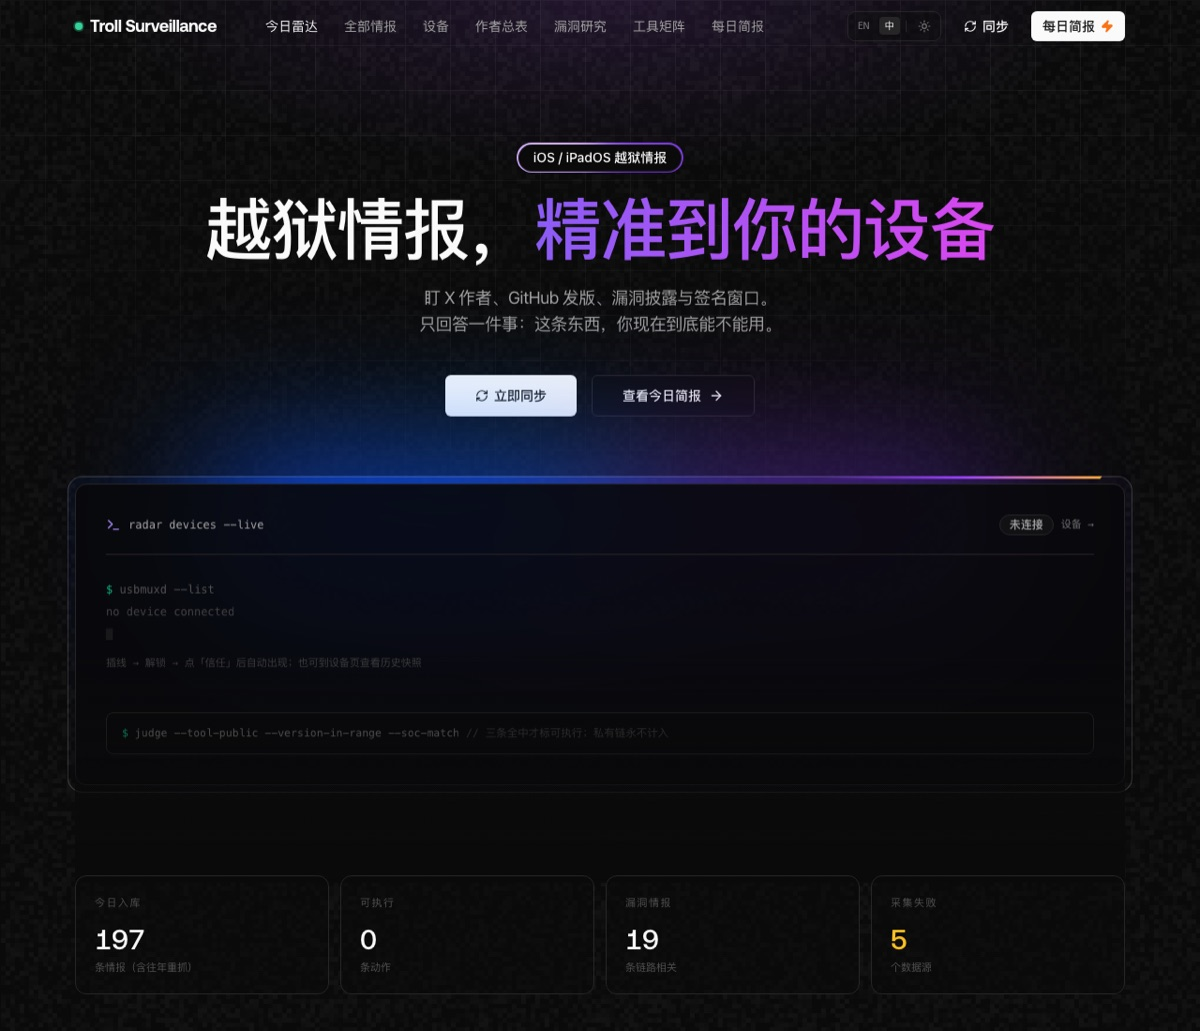
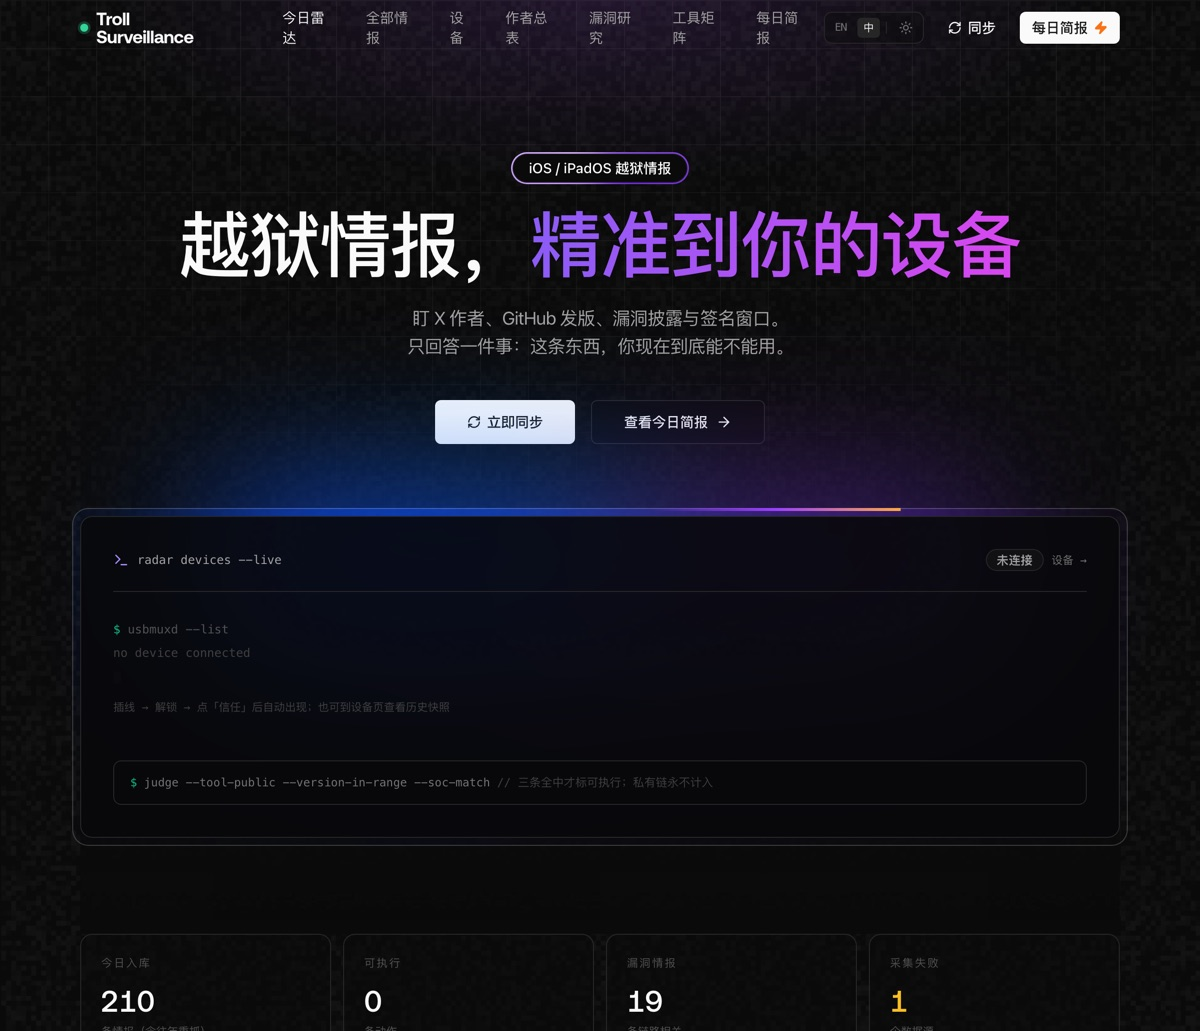
feat(docs): sync EN/ZH READMEs, screenshots and release notes
The English README now covers the Apple platform push panel exactly like the
Chinese one (feature block, data-source row, /api/os, project layout), the
Chinese README gains the missing "Interface" section, both get refreshed
home/light screenshots plus a dedicated apple-push shot, and generated release
bodies keep their Chinese section in Chinese instead of repeating the English
bullets.

zh: 中英 README、截图与发布说明全部同源同步；中文段不再重复英文条目

diff --git a/components/site/os-push.tsx b/components/site/os-push.tsx
@@ -126,7 +126,7 @@ export default function OsPushPanel({
   const fresh = push ? Date.now() - new Date(push.at).getTime() < 36 * 3600 * 1000 : false;
 
   return (
-    <section>
+    <section id="apple-push" className="scroll-mt-24">
       <div className="flex flex-col items-start justify-between gap-5 md:flex-row md:items-end">
         <div>
           <MagicBadge title={t(lang, 'home.os.badge')} />

diff --git a/README.zh-CN.md b/README.zh-CN.md
@@ -23,6 +23,16 @@
 - **ipsw.me** —— 按机型标识实时查询签名窗口
 - **Apple 安全公告** 与 **Relaxin**（直接解析它的 SPA bundle —— 该项目没有公开仓库）
 
+### Apple 平台推送
+- 直读 `developer.apple.com/news/releases/rss/releases.rss` —— 就是 Apple 自己发布的那个源，中间没有镜像站
+- 共用同一个 pubDate 的条目合并成**一次推送**，看到的是「Apple 一次推了 7 个版本」，而不是七条互不相干的记录
+- 每个平台（Xcode、iOS、iPadOS、macOS、tvOS、visionOS、watchOS）给出版本、Build 与渠道（RC / Beta / 正式版），并标出**新版本 / 旧版本**；新版本还会写明从哪一版升上来
+- 每行都和当前连接的设备（或保存的判定档案）对比：`你的 27.0.1 · 低于推送`
+- 2 分钟缓存，且每轮 600 秒同步都会回源，官方一发就会自己更新
+- `/api/os` 对外暴露同样的行数据、推送历史与新/旧标记
+
+![Apple 平台推送](docs/screenshots/zh/apple-push.jpg)
+
 ### 判定引擎
 - 关键词加权（untether、0day、MIE/PAC/SPTM、内核、CoreTrust…）并保留证据链
 - **版本抽取 + SoC 匹配**：每条情报相对你的设备判定为 `direct` / `future` / `obsolete`
@@ -38,6 +48,13 @@
 - 未连接时终端窗口保留，只隐藏设备行
 
 ![设备](docs/screenshots/zh/devices.jpg)
+
+### 界面
+- **双语** —— 导航栏 EN / 中 切换，写进 cookie，支持 `?lang=en` 直链；在服务端解析，不会先闪一下再变
+- **亮色 + 暗色** —— ☀ / ☾ 切换，`?theme=light` 直链；语义 token 加中性色重映射
+- **脱敏模式** —— `?redact=1` 遮蔽 UDID 尾号、型号与地区，截图可安全公开
+
+![亮色主题](docs/screenshots/zh/light.jpg)
 
 ### 简报
 - 每日 markdown 归档（`data/digests/YYYY-MM-DD.md`），**每轮同步都重写**
@@ -97,6 +114,7 @@ WATCH_MS=300000 ./start.sh  # 改成 5 分钟
 | 固件签名 | `lib/collect/ipsw.ts` | 按机型标识取签名列表 |
 | Apple 安全公告 | `lib/collect/apple.ts` | 公告标题 |
 | Relaxin | `lib/collect/relaxin.ts` | 从站点 bundle 解析版本与支持矩阵 |
+| Apple 平台版本 | `lib/osversions.ts`、`lib/collect/apple.ts` | 官方 developer releases RSS；同时间戳条目合并为一次推送 |
 
 ## API
 
@@ -108,6 +126,7 @@ WATCH_MS=300000 ./start.sh  # 改成 5 分钟
 | GET | `/api/digest?date=` | markdown 简报 |
 | GET | `/api/watch` | 抓取器状态（间隔、上次/下次、错误） |
 | GET | `/api/health` | 同步健康度与签名快照 |
+| GET | `/api/os[?force=1]` | 平台版本、推送历史、新/旧标记 |
 | GET/POST | `/api/profile` | 读取/修改判定目标 |
 
 ## 目录结构
@@ -115,7 +134,7 @@ WATCH_MS=300000 ./start.sh  # 改成 5 分钟
 ```
 app/            页面与 API
 components/     UI（Linkify 皮肤、实时设备、简报渲染）
-lib/            analyze / digest / sync / devices / trollstore / fresh / dedupe / xfilter
+lib/            analyze / digest / sync / devices / trollstore / osversions / fresh / dedupe / xfilter
 lib/collect/    各数据源适配器
 scripts/        sync、watch、reanalyze、device、dossier、purge-x
 data/           运行时状态（已 gitignore）：items、meta、digests、设备快照

diff --git a/README.md b/README.md
@@ -23,6 +23,16 @@ Jailbreak news is noisy and almost always untethered from reality. A tool "suppo
 - **ipsw.me** — live signing window per device identifier
 - **Apple security releases** and **Relaxin** (parsed straight out of the SPA bundle — the project has no public repo)
 
+### Apple platform push
+- Reads `developer.apple.com/news/releases/rss/releases.rss` directly — the feed Apple itself publishes, no mirror in between
+- Items that share one pubDate are grouped into **one push**, so the page says "Apple shipped 7 builds" instead of showing seven unrelated rows
+- Every platform (Xcode, iOS, iPadOS, macOS, tvOS, visionOS, watchOS) gets version, build and channel (RC / Beta / release), plus a **new vs unchanged** marker; new rows also say what they upgraded from
+- Each row is compared against your connected device or the saved profile — `yours 27.0.1 · behind the push`
+- Refetched every 2 minutes, and on every 600s sync, so an official release lands on its own
+- `/api/os` exposes the same rows, the push history and the new/old flags
+
+![Apple platform push](docs/screenshots/en/apple-push.jpg)
+
 ### Judgement engine
 - Keyword scoring (untether, 0day, MIE/PAC/SPTM, kernel, CoreTrust, …) with weights and evidence trails
 - **Version extraction + SoC matching** — every item is classified `direct` / `future` / `obsolete` against your device
@@ -105,6 +115,7 @@ The tool registry lives in `lib/knowledge.ts`; device-side TrollStore tooling li
 | Firmware signing | `lib/collect/ipsw.ts` | per-identifier signed list |
 | Apple security | `lib/collect/apple.ts` | advisory titles |
 | Relaxin | `lib/collect/relaxin.ts` | version + support matrix parsed from the site bundle |
+| Apple platform releases | `lib/osversions.ts`, `lib/collect/apple.ts` | official developer releases RSS; same-timestamp items collapse into one push |
 
 ## API
 
@@ -116,6 +127,7 @@ The tool registry lives in `lib/knowledge.ts`; device-side TrollStore tooling li
 | GET | `/api/digest?date=` | markdown digest |
 | GET | `/api/watch` | watcher state (interval, last/next run, errors) |
 | GET | `/api/health` | sync health and signing snapshot |
+| GET | `/api/os[?force=1]` | platform versions, push history, new/old flags |
 | GET/POST | `/api/profile` | read/update the judgement target |
 
 ## Project layout
@@ -123,7 +135,7 @@ The tool registry lives in `lib/knowledge.ts`; device-side TrollStore tooling li
 ```
 app/            pages + API routes
 components/     UI (Linkify skin, live devices, digest renderer)
-lib/            analyze, digest, sync, devices, trollstore, fresh, dedupe, xfilter
+lib/            analyze, digest, sync, devices, trollstore, osversions, fresh, dedupe, xfilter
 lib/collect/    source adapters
 scripts/        sync, watch, reanalyze, device, dossier, purge-x
 data/           runtime state (git-ignored): items, meta, digests, device snapshots

diff --git a/docs/releases/v0.2.9.md b/docs/releases/v0.2.9.md
@@ -20,12 +20,12 @@
 
 ### 🐛 修复
 
-- **ci** — rewrite notes checker, accept dash sentinel for empty sections
-- **ci** — callable gen-notes helpers, dash placeholders, backfill v0.2.7 notes
+- **ci** — 重写正文校验器，允许空分节用 — 占位
+- **ci** — gen-notes 辅助函数可被调用、空分节占位符、补齐 v0.2.7 正文
 
 ### 🚀 功能
 
-- —
+—
 
 </details>
 

diff --git a/docs/releases/v0.2.10.md b/docs/releases/v0.2.10.md
@@ -15,15 +15,15 @@
 
 ### ✨ 新增
 
-1. **home** — Apple platform push panel fed by the official release feed
+1. **home** — Apple 平台推送面板（直读官方发布源）
 
 ### 🐛 修复
 
-- —
+—
 
 ### 🚀 功能
 
-- —
+—
 
 </details>
 

diff --git a/docs/releases/v0.2.8.md b/docs/releases/v0.2.8.md
@@ -19,11 +19,11 @@
 
 ### 🐛 修复
 
-- **ci** — callable gen-notes helpers, dash placeholders, backfill v0.2.7 notes
+- **ci** — gen-notes 辅助函数可被调用、空分节占位符、补齐 v0.2.7 正文
 
 ### 🚀 功能
 
-- —
+—
 
 </details>
 
